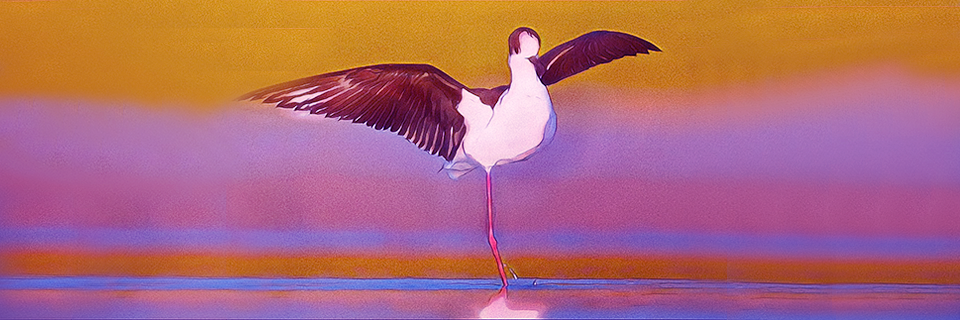
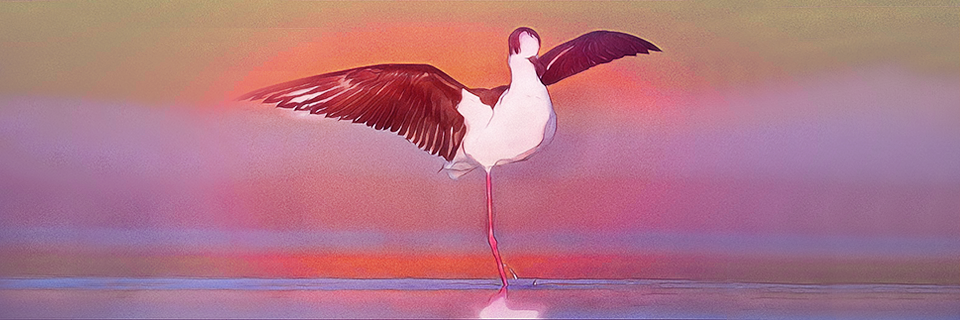
,
,

diff --git a/index.html b/index.html
@@ -389,7 +389,7 @@ ______ <br> <br>
 									
 									
 								</p>
-								<span class="image main"><img src="images/olhosultimafinal.png" alt="" /></span>
+								<span class="image main"><img src="images/olhos6.jpg" alt="" /></span>
 
 							</article>
 
